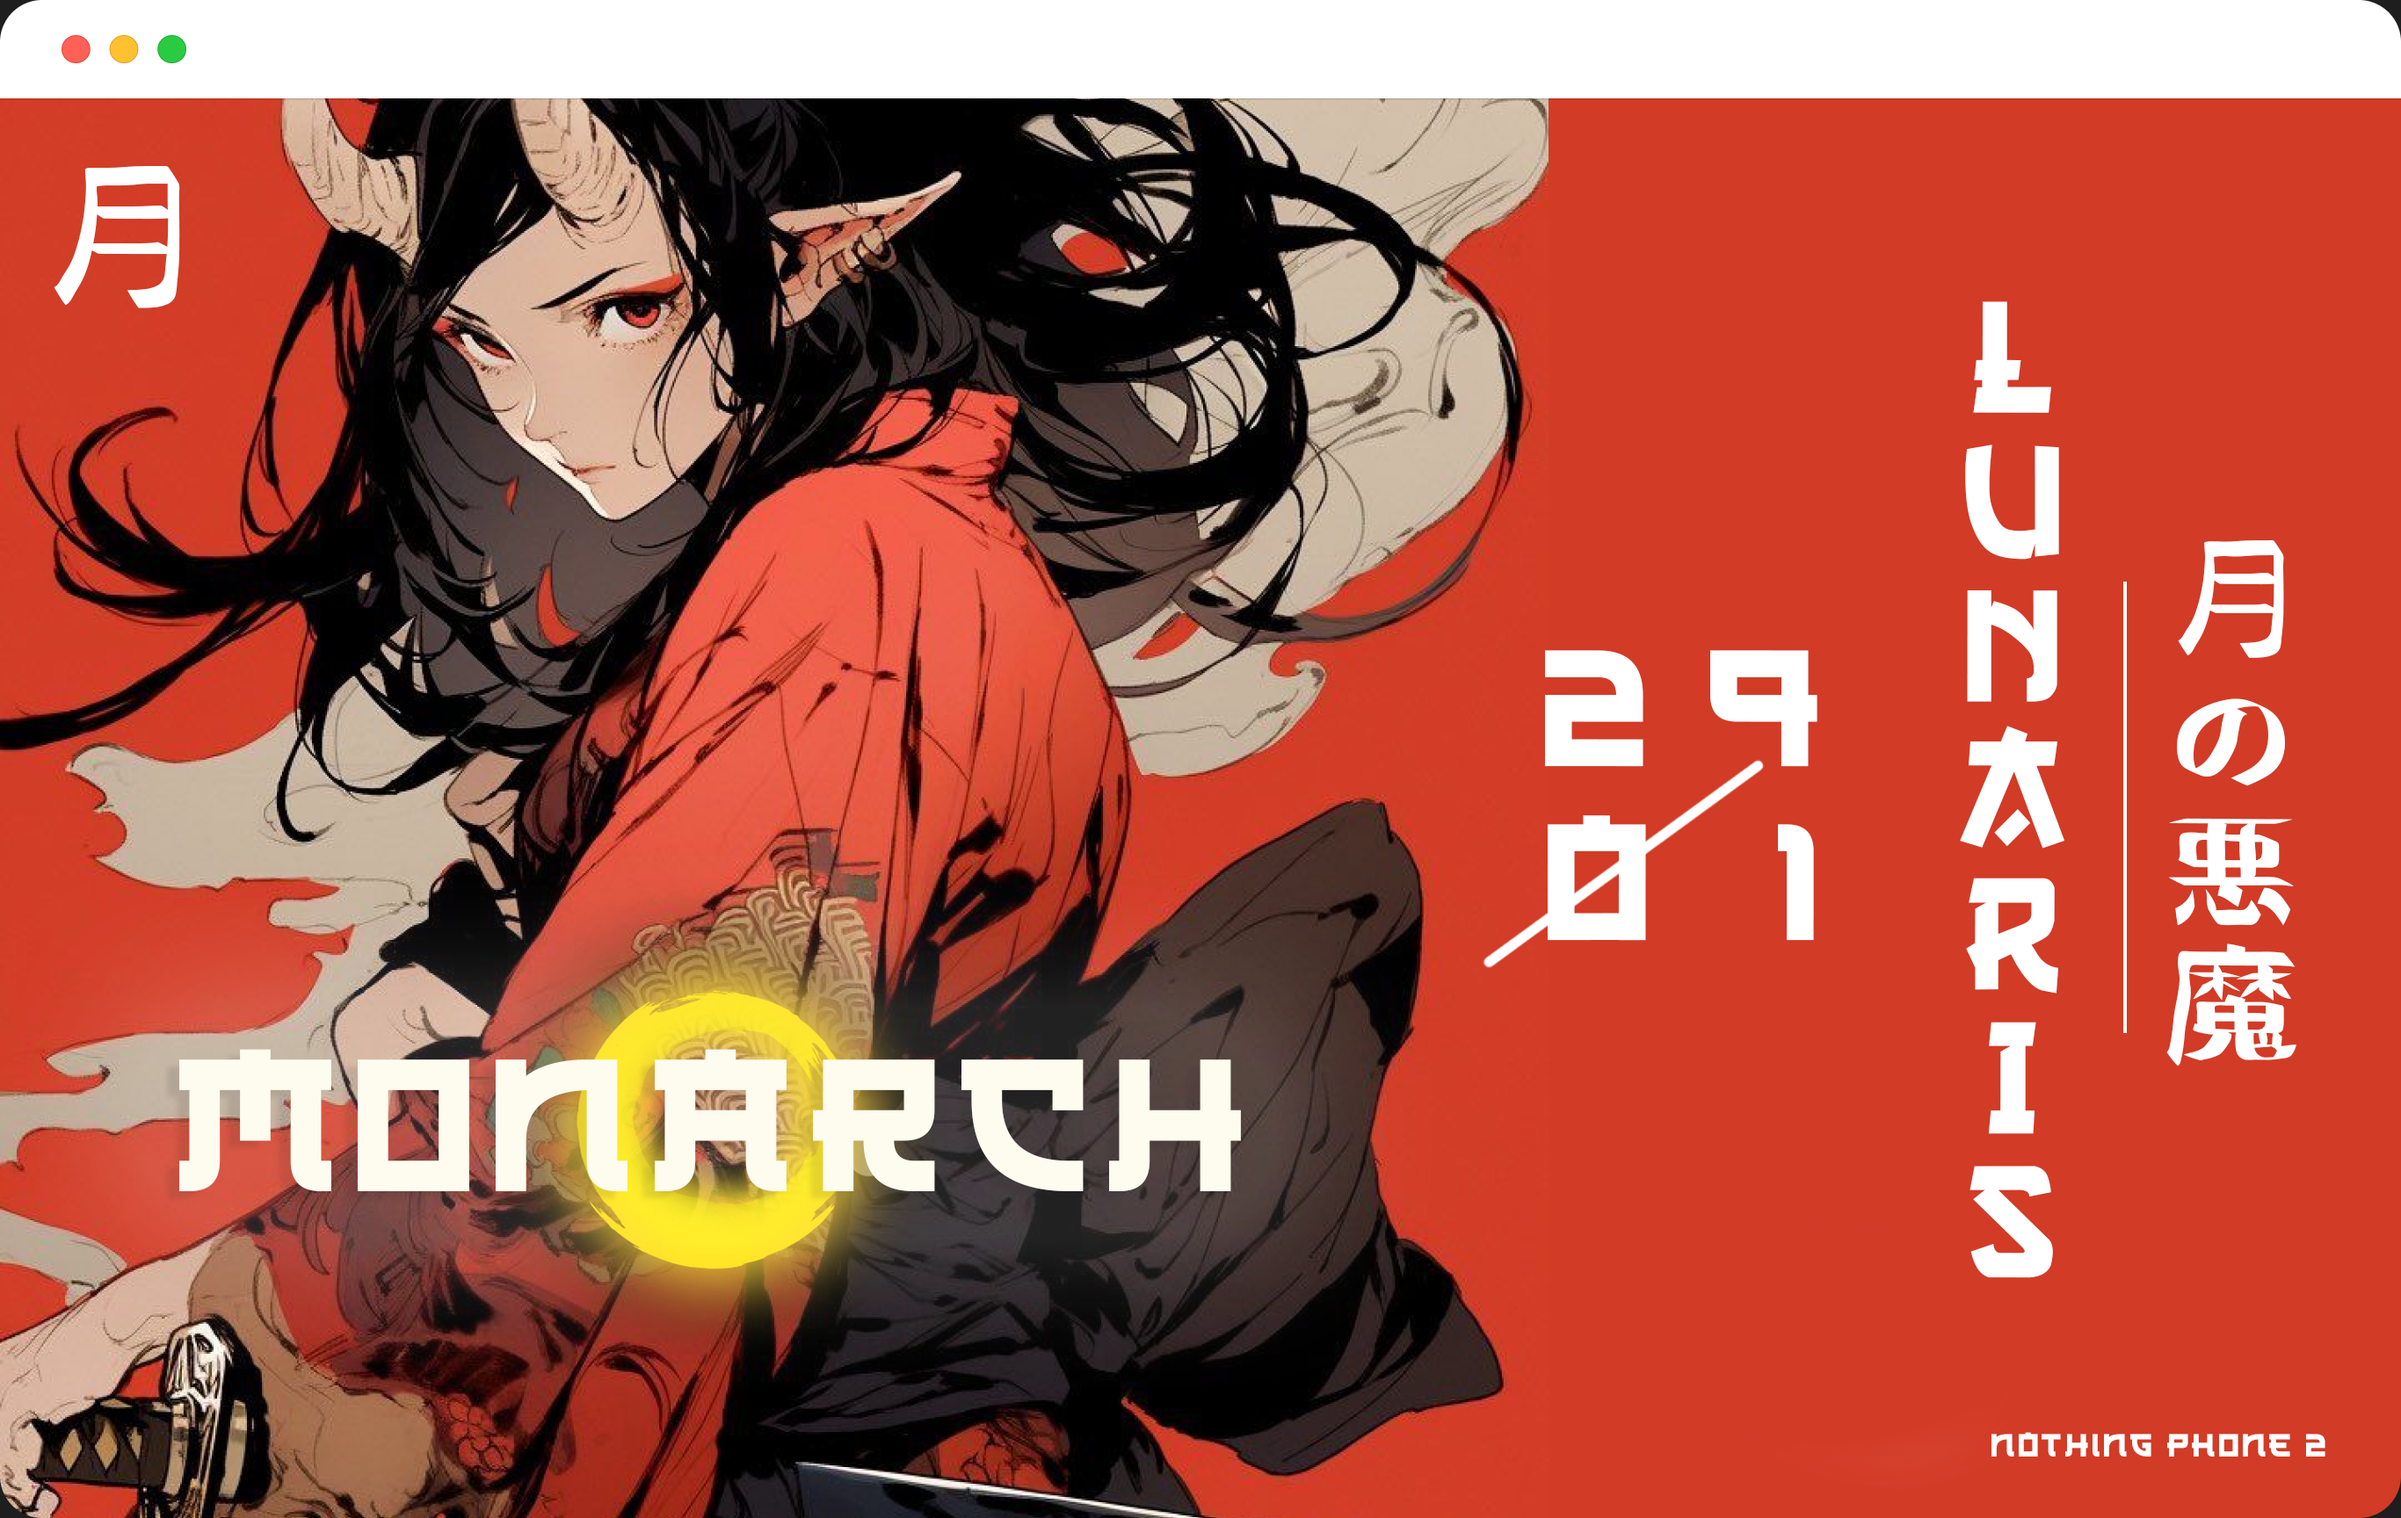
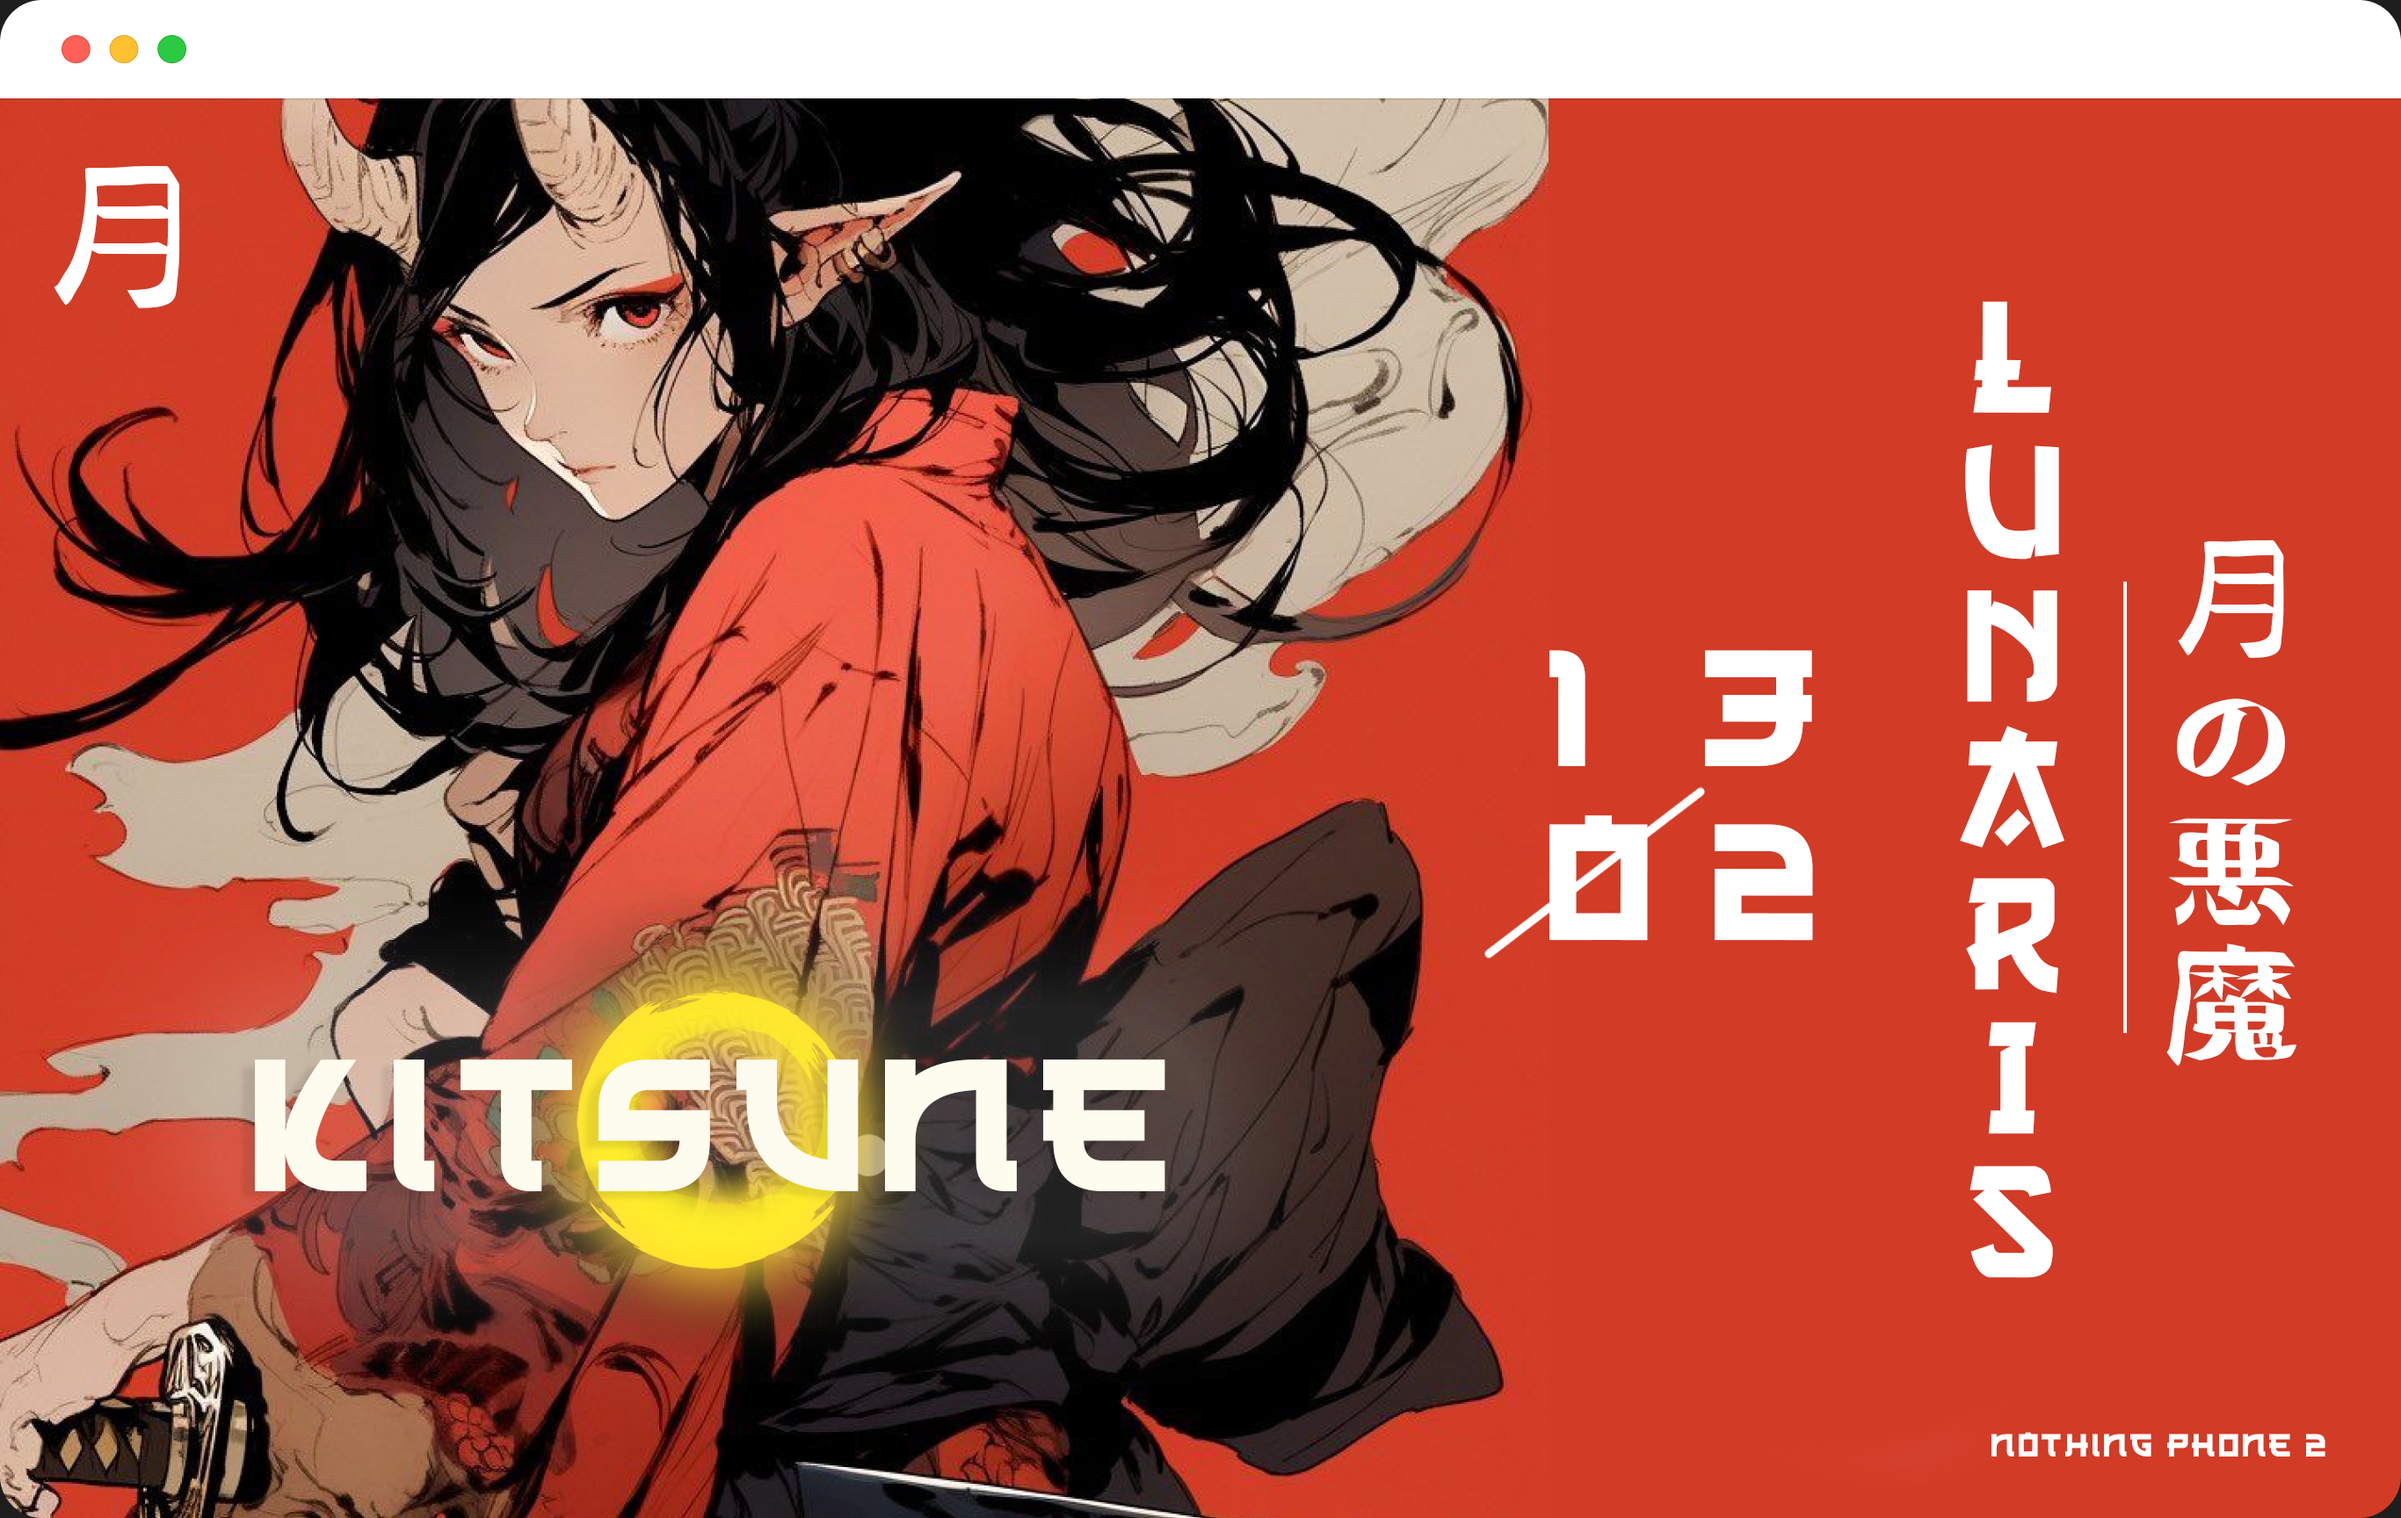
Update cl

diff --git a/README.md b/README.md
@@ -11,6 +11,44 @@
 
 ## **Source Changelog** ##
 
+**13th February 2025**
+
+```bash
+- Updated System to LA.QSSI.15.0.r1-13900-qssi.0.
+- Update media libs from 13800-WAIPIO.0
+- Drop some prebuilt apps
+- Redesign Lunaris lab
+- Added lockscreen charging indicator
+- Data icon style
+- Media thumb style
+- Add outline battery style
+- Add option to choose between native and LMO freeform
+- Expose Omnijaw weather activity menu in settings 
+- Make AOSP native freeform windows always-on-top
+- Add option to disable Data Disabled Indicator icon
+- Add hideMyApp list
+- Drop some extra boost changes for battery
+- Add volume sound feedback option 
+- Add aod avater picture option
+- Match legacy toast view with SystemUI
+- Redesign Accessibility Menu
+- Add more prebuilt header img
+- Tune new biometric dialog UI
+- Allow nexuslauncher to call search result intents
+- Decrease QS Widgets media art fade
+- Map Nintendo ProCon like stock does
+- Enable wireless Xbox 360 controller support
+- Remove default aspect ratio limit for old apps
+- Add seekbar option to change nowbar height 
+- Make ios clock follow monet color
+- Charging control logic improvement
+- Remove bouncer delay when face unlock is enabled
+- Switch to our gms_certified_props repo fork for easy update
+- Silence some error and log spams
+- * Various fixes and improvements 
+
+```
+
 **29th January 2025**
 
 ```bash
